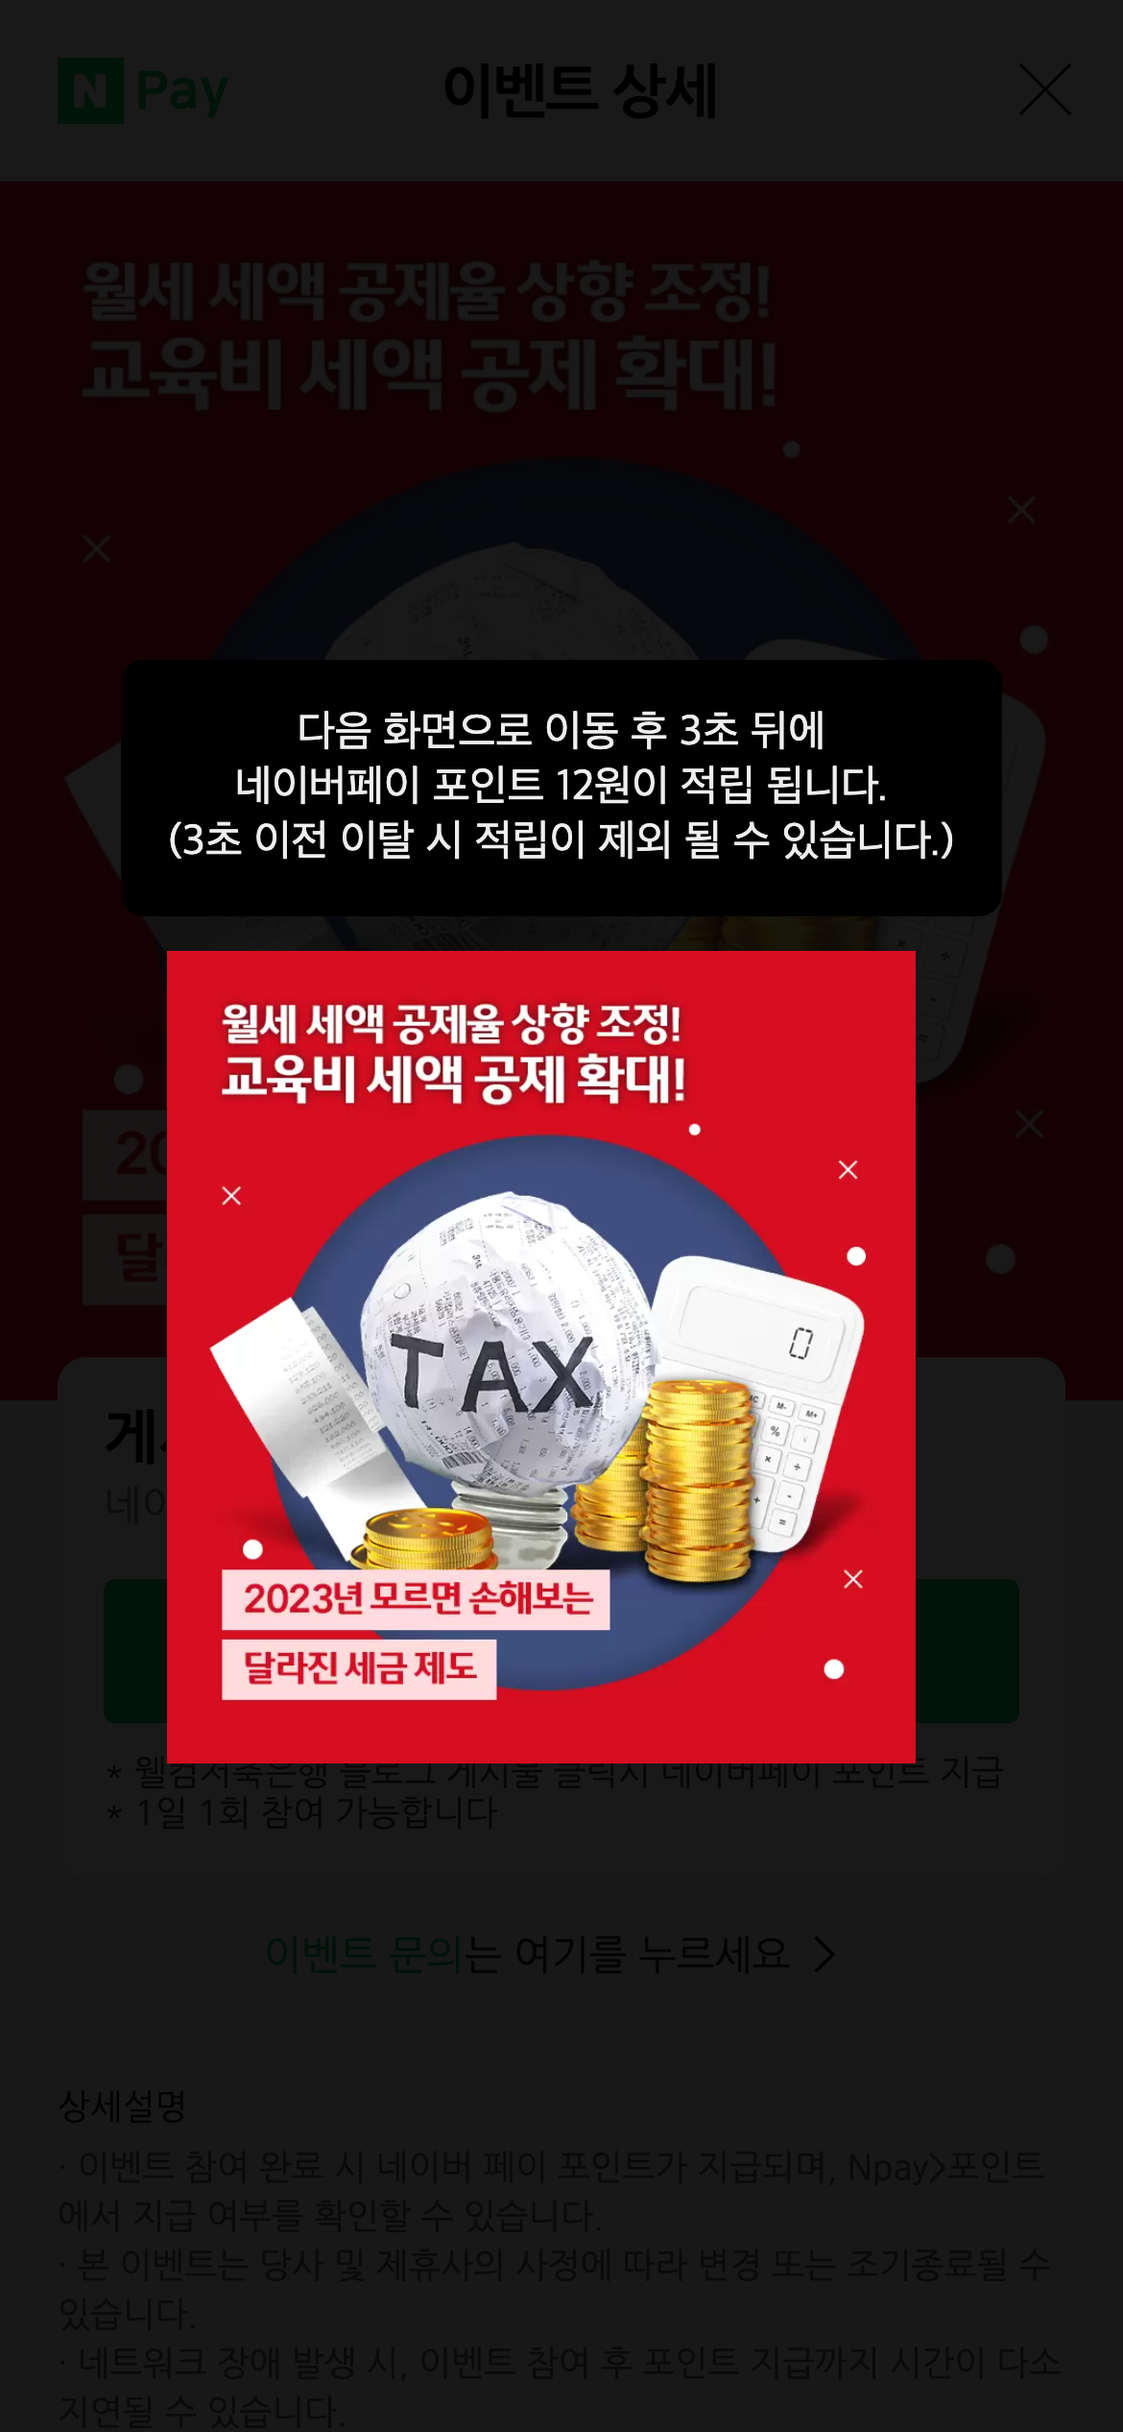
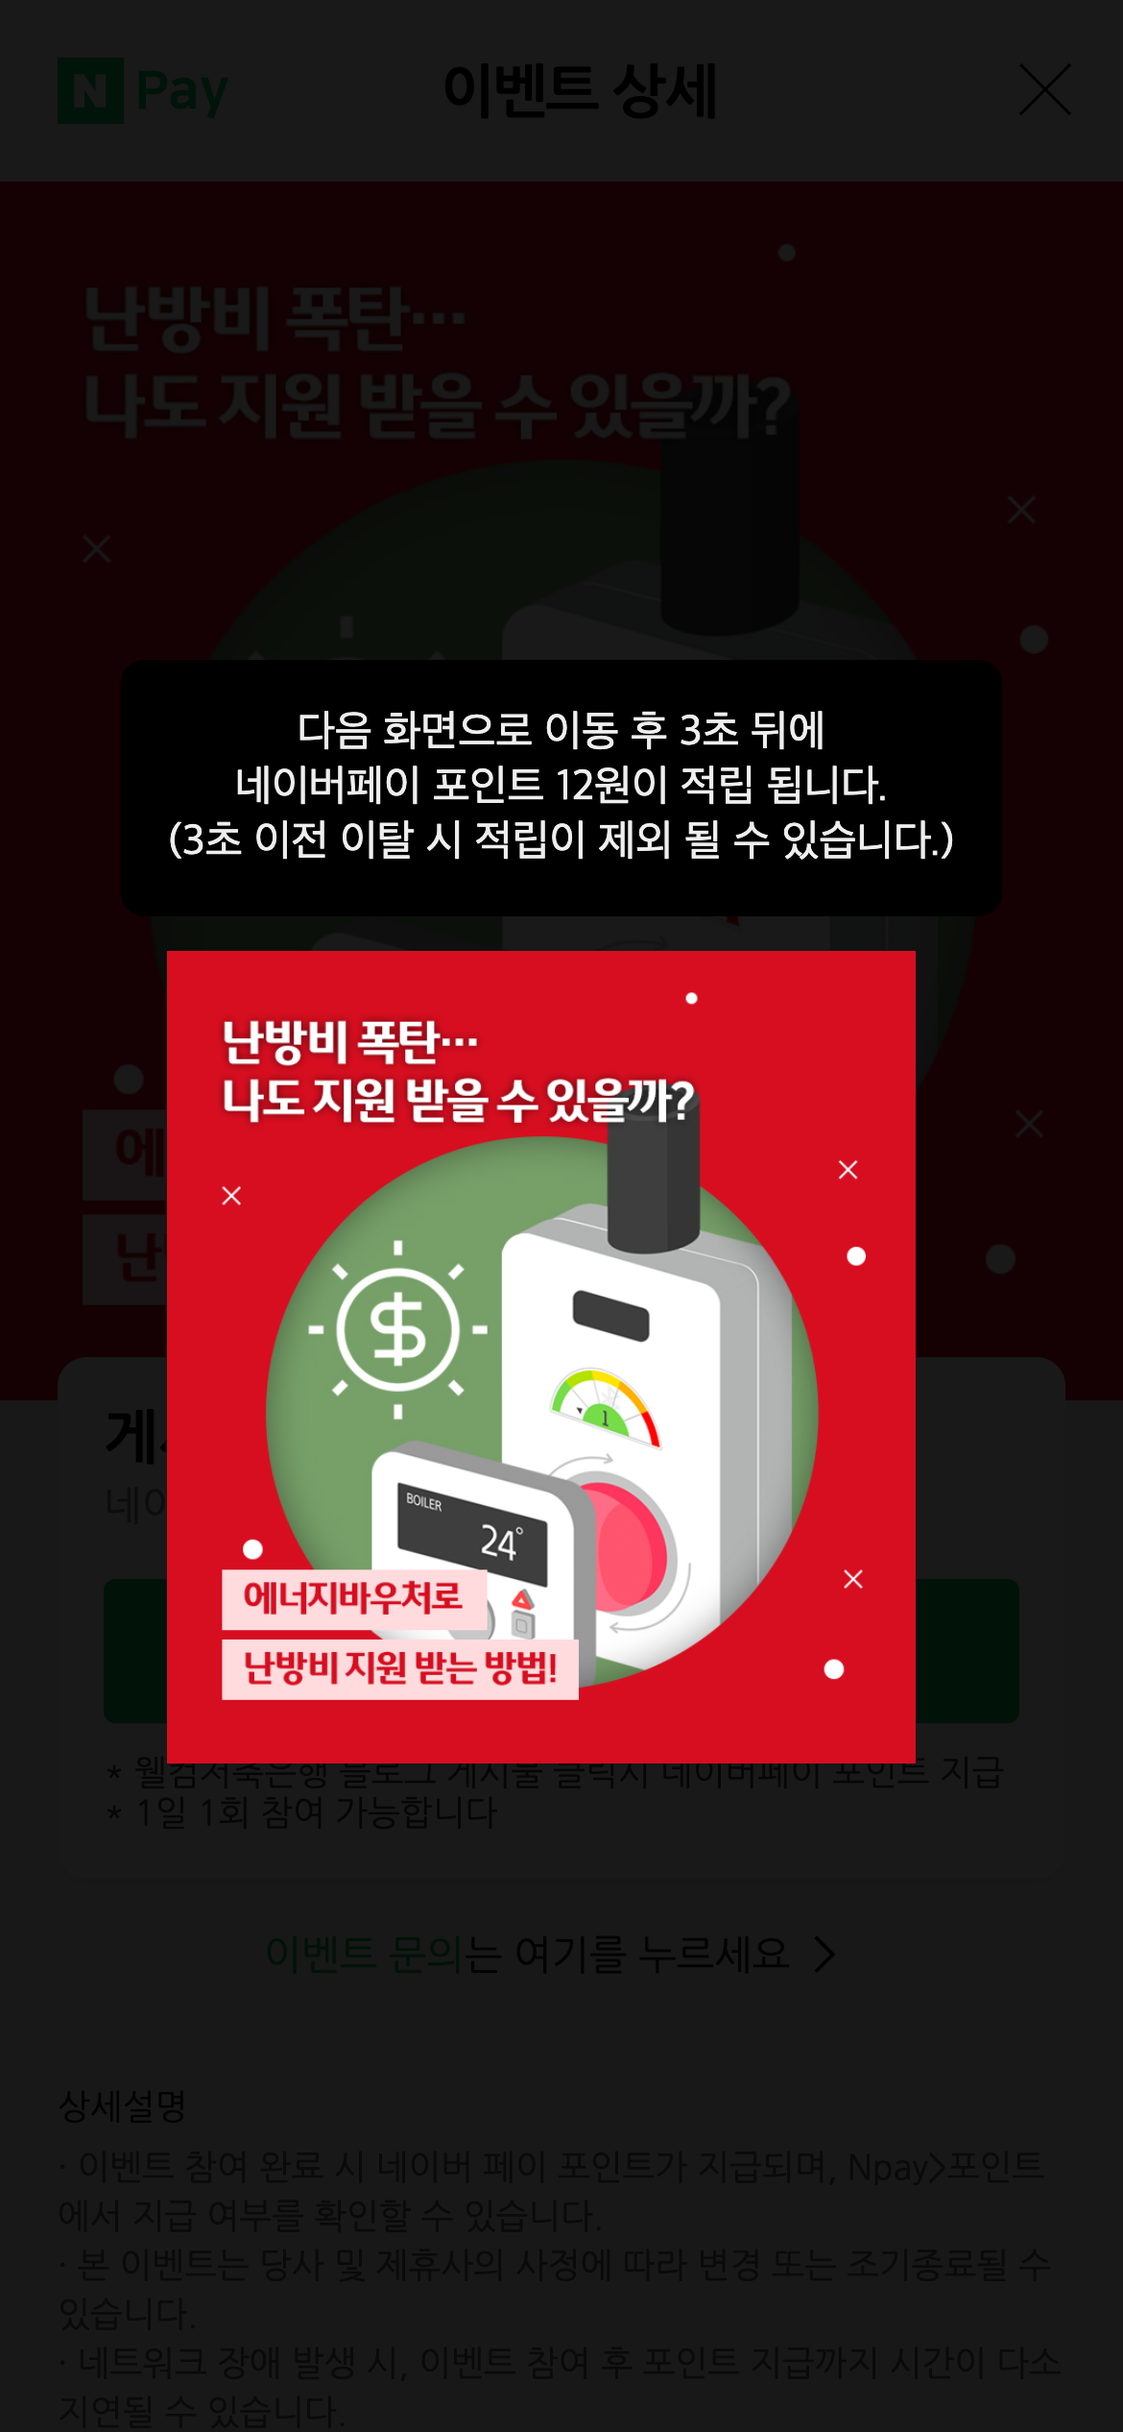
Update 광고 정리
종료된 광고 정리

Changed region(s): [[0.1846, 0.4056, 0.7692, 0.7176]]

diff --git a/appDev.js b/appDev.js
@@ -32,6 +32,7 @@
  * 2023/02/18        wj       네이버 페이 포인트 적립될 아이디 알림 메시지 추가
  * 2023/02/23        wj       9시 광고 시작 시간 조정(웰컴저축 광고 포인트 얻기 실패로 인하여)
  * 2023/02/25        wj       9시 광고 시작 시간 조정(웰컴저축 광고 포인트 얻기 실패로 인하여)
+ * 2023/03/06        wj       종료된 광고 정리 및 코드 정리
  */
 /* Reference
  * 파이썬 - 셀레니움으로 네이버 로그인하기, 캡차(보안문자) 우회 : https://private.tistory.com/119
@@ -86,15 +87,6 @@ if (!config.id || !config.pw) {
         throw  Error("시간에 맞춰 실행하지 못하였습니다. 수동적립후 오류를 확인 해주세요.\n" + e);
     }
 
-    // try {
-    //     let today = new Date();
-    //     schedule.scheduleJob('02 00 08 * * *', () => { // 매일 오전 08시 프로그램 작동
-    //         console.log("현재 시간: " + today.toLocaleString() + " 네이버 페이 자동 출첵이 시작되었습니다.");
-    //         login(job1_2) // 네이버 로그인후 8시 광고 함수 실행
-    //     });
-    // } catch (e) {
-    //     throw  Error("시간에 맞춰 실행하지 못하였습니다. 수동적립후 오류를 확인 해주세요.\n" + e);
-    // }
 
     try {
         let today = new Date();
@@ -217,162 +209,6 @@ if (!config.id || !config.pw) {
         login(); // Callback 적용
     }
 
-    //////////////////// 자정 광고 함수 ////////////////////
-    async function job1_1() {
-        //////////////////// 1차 자정 광고 ////////////////////
-        try {
-            let alreadyDone = "클릭 적립은 캠페인당 1회만 적립 됩니다.2초 뒤 다음 페이지로 이동 합니다.";
-            let endAd = "준비된 클릭 적립이 모두 소진 되었습니다.2초 뒤 다음 페이지로 이동 합니다.";
-
-            await page.goto('https://ofw.adison.co/u/naverpay/ads/343265'); // 나이키 인기 신발
-            await page.waitForTimeout(1000); // 접속 대기
-            const modal = await page.$("body > div.cpc_popup > div > div.dim > p");
-            const modalText = await page.evaluate(modal => modal.textContent, modal);
-            console.log("알림창 내용: " + modalText);
-
-            if (modalText == endAd) {
-                await page.screenshot({
-                    path: 'Screenshot/NPayEndAd1_1.png', fullPage: false
-                });
-                console.log("자정 1차 온라인 폐지가 소진 되어 종료되었습니다. 자정 2차 적립으로 진행합니다.");
-            }
-            if (modalText == alreadyDone) {
-                await page.screenshot({
-                    path: 'Screenshot/NPayAlreadyDone1_1.png', fullPage: false
-                });
-                console.log("이미 자정 1차 온라인 폐지 줍기를 하셨습니다. 자정 2차 적립으로 진행합니다.");
-            }
-
-            await page.screenshot({
-                path: 'Screenshot/NPayMidnight1_1.png', fullPage: false
-            });
-            console.log("자정 1차 광고 페이지에 접속하였지만, 포인트 적립이 되었는지는 확인하세요!")
-            await page.waitForTimeout(7000); // 2초후 자동 페이지 이동 대기
-        } catch (e) {
-            let errorMsg = "자정 1차 적립 페이지에 접속 할 수 없습니다. 다시 확인후 재시도 해주십시오."
-            await page.screenshot({
-                path: 'Screenshot/NPayMidnightFailAccess1_1.png', fullPage: false
-            });
-            throw Error(errorMsg + e);
-        }
-        //
-        // //////////////////// 2차 자정 광고 ////////////////////
-        // try {
-        //     let alreadyDone = "클릭 적립은 캠페인당 1회만 적립 됩니다.2초 뒤 다음 페이지로 이동 합니다.";
-        //     let endAd = "준비된 클릭 적립이 모두 소진 되었습니다.2초 뒤 다음 페이지로 이동 합니다.";
-        //
-        //     await page.goto('https://ofw.adison.co/u/naverpay/ads/298915'); // 나이키 에어맥스 95
-        //     await page.waitForTimeout(1000); // 접속 대기
-        //
-        //     const modal = await page.$("body > div.cpc_popup > div > div.dim > p");
-        //     const modalText = await page.evaluate(modal => modal.textContent, modal);
-        //     console.log("알림창 내용: " + modalText);
-        //
-        //     if (modalText == endAd) {
-        //         await page.screenshot({
-        //             path: 'Screenshot/NPayEndAd2.png', fullPage: false
-        //         });
-        //         console.log("2차 온라인 폐지가 소진 되어 종료되었습니다.");
-        //     }
-        //     if (modalText == alreadyDone) {
-        //         await page.screenshot({
-        //             path: 'Screenshot/NPayAlreadyDone2.png', fullPage: false
-        //         });
-        //         console.log("이미 2차 자정 온라인 폐지 줍기를 하셨습니다.");
-        //     }
-        //
-        //     await page.screenshot({
-        //         path: 'Screenshot/NPayMidnight2.png', fullPage: false
-        //     });
-        //     console.log("자정 2차 광고 페이지에 접속하였지만, 포인트 적립이 되었는지는 확인하세요!")
-        //     await page.waitForTimeout(5000); // 2초후 페이지 이동 대기
-        // } catch (e) {
-        //     let errorMsg = "자정 2차 적립 페이지에 접속 할 수 없습니다. 다시 확인후 재시도 해주십시오."
-        //     await page.screenshot({
-        //         path: 'Screenshot/NPayMidnightFailAccess2.png', fullPage: false
-        //     });
-        //     throw Error(errorMsg + e);
-        // }
-        //
-        // //////////////////// 3차 자정 광고 ////////////////////
-        // try {
-        //     let alreadyDone = "클릭 적립은 캠페인당 1회만 적립 됩니다.2초 뒤 다음 페이지로 이동 합니다.";
-        //     let endAd = "준비된 클릭 적립이 모두 소진 되었습니다.2초 뒤 다음 페이지로 이동 합니다.";
-        //
-        //     await page.goto('https://ofw.adison.co/u/naverpay/ads/343265'); // 나이키 플래시 세일
-        //     await page.waitForTimeout(1000); // 접속 대기
-        //
-        //     const modal = await page.$("body > div.cpc_popup > div > div.dim > p");
-        //     const modalText = await page.evaluate(modal => modal.textContent, modal);
-        //     console.log("알림창 내용: " + modalText);
-        //
-        //     if (modalText == endAd) {
-        //         await page.screenshot({
-        //             path: 'Screenshot/NPayEndAd2.png', fullPage: false
-        //         });
-        //         console.log("2차 온라인 폐지가 소진 되어 종료되었습니다.");
-        //     }
-        //     if (modalText == alreadyDone) {
-        //         await page.screenshot({
-        //             path: 'Screenshot/NPayAlreadyDone2.png', fullPage: false
-        //         });
-        //         console.log("이미 2차 자정 온라인 폐지 줍기를 하셨습니다.");
-        //     }
-        //
-        //     await page.screenshot({
-        //         path: 'Screenshot/NPayMidnight2.png', fullPage: false
-        //     });
-        //     console.log("자정 2차 광고 페이지에 접속하였지만, 포인트 적립이 되었는지는 확인하세요!")
-        //     await page.waitForTimeout(5000); // 2초후 페이지 이동 대기
-        // } catch (e) {
-        //     let errorMsg = "자정 2차 적립 페이지에 접속 할 수 없습니다. 다시 확인후 재시도 해주십시오."
-        //     await page.screenshot({
-        //         path: 'Screenshot/NPayMidnightFailAccess2.png', fullPage: false
-        //     });
-        //     throw Error(errorMsg + e);
-        // }
-
-    }
-    // async function job1_2() {
-    //     //////////////////// 8시 광고 ////////////////////
-    //     try {
-    //         let alreadyDone = "클릭 적립은 캠페인당 1회만 적립 됩니다.2초 뒤 다음 페이지로 이동 합니다.";
-    //         let endAd = "준비된 클릭 적립이 모두 소진 되었습니다.2초 뒤 다음 페이지로 이동 합니다.";
-    //
-    //         await page.goto('https://ofw.adison.co/u/naverpay/ads/348514'); // 갤럭시 온라인 체험존
-    //
-    //         await page.waitForTimeout(1000); // 접속 대기
-    //
-    //         const modal = await page.$("body > div.cpc_popup > div > div.dim > p");
-    //         const modalText = await page.evaluate(modal => modal.textContent, modal);
-    //         console.log("알림창 내용: " + modalText);
-    //
-    //         if (modalText == endAd) {
-    //             await page.screenshot({
-    //                 path: 'Screenshot/NPayEndAd1_2.png', fullPage: false
-    //             });
-    //             console.log("8시 광고 온라인 폐지가 소진 되어 종료되었습니다.");
-    //         }
-    //         if (modalText == alreadyDone) {
-    //             await page.screenshot({
-    //                 path: 'Screenshot/NPayAlreadyDone1_2.png', fullPage: false
-    //             });
-    //             console.log("8시 광고를 이미 온라인 폐지 줍기 하셨습니다.");
-    //         }
-    //
-    //         await page.screenshot({
-    //             path: 'Screenshot/NPay1_2.png', fullPage: false
-    //         });
-    //         console.log("8시 광고 페이지에 접속하였지만, 포인트 적립이 되었는지는 확인하세요!")
-    //         await page.waitForTimeout(7000); // 2초후 자동 페이지 이동 대기
-    //     } catch (e) {
-    //         let errorMsg = "8시 광고 적립 페이지에 접속 할 수 없습니다. 다시 확인후 재시도 해주십시오."
-    //         await page.screenshot({
-    //             path: 'Screenshot/NPayFailAccess1_2.png', fullPage: false
-    //         });
-    //         throw Error(errorMsg + e);
-    //     }
-    // }
 
     //////////////////// 9시 광고 함수 ////////////////////
     async function job1_3() {
@@ -430,63 +266,6 @@ if (!config.id || !config.pw) {
             let errorMsg = "9시 1차 적립 페이지에 접속 할 수 없습니다. 다시 확인후 재시도 해주십시오."
             await page.screenshot({
                 path: 'Screenshot/NPayFailAccess1_3_1.png', fullPage: false
-            });
-            throw Error(errorMsg + e);
-        }
-
-        //////////////////// 9시 광고 2차 ////////////////////
-
-        try {
-            let alreadyDone = "클릭 적립은 캠페인당 1회만 적립 됩니다.2초 뒤 다음 페이지로 이동 합니다.";
-            let endAd = "준비된 클릭 적립이 모두 소진 되었습니다.2초 뒤 다음 페이지로 이동 합니다.";
-
-            await page.goto('https://ofw.adison.co/u/naverpay/ads/298919'); // 나이키 와플
-
-            await page.waitForTimeout(1000); // 접속 대기
-
-            const modal = await page.$("body > div.cpc_popup > div > div.dim > p");
-            const modalText = await page.evaluate(modal => modal.textContent, modal);
-            console.log("알림창 내용: " + modalText);
-
-
-            if (modalText == endAd) {
-                await page.screenshot({
-                    path: 'Screenshot/NPayEndAd1_3_2.png', fullPage: false
-                });
-                console.log("9시 2차 온라인 폐지가 소진 되어 종료되었습니다.");
-            }
-            if (modalText == alreadyDone) {
-                await page.screenshot({
-                    path: 'Screenshot/NPayAlreadyDone1_3_2.png', fullPage: false
-                });
-                console.log("9시 2차 광고를 이미 온라인 폐지 줍기 하셨습니다.");
-            }
-            //
-            // //////// 화면 이동후 광고 종료 여부 확인 //////////////
-            //
-            // await page.waitForTimeout(3000); // 페이지 이동후 잠시 대기
-            // let endAd2 = "광고 참여가 종료되었습니다.다른 광고를 이용해 주세요 ";
-            // const modal2 = await page.$("body > div.blocker.current > div > div:nth-child(1)");
-            // const modalText2 = await page.evaluate(modal2 => modal2.textContent, modal2);
-            // console.log("알림창 내용: " + modalText2);
-            // if (modalText2 == endAd2) {
-            //     await page.screenshot({
-            //         path: 'Screenshot/NPayEnd1_3_2.png', fullPage: false
-            //     });
-            //     console.log("9시 2차 광고가 종료되어 출첵을 실패하였습니다. 확인후 다시 시도 해주세요.");
-            // }
-
-            await page.screenshot({
-                path: 'Screenshot/NPay1_3_2.png', fullPage: false
-            });
-            console.log("9시 2차 페이지에 접속하였지만, 포인트 적립이 되었는지는 확인하세요!")
-
-            await page.waitForTimeout(7000); // 2초후 자동 페이지 이동 대기
-
-        } catch (e) {
-            let errorMsg = "9시 2차 적립 페이지에 접속 할 수 없습니다. 다시 확인후 재시도 해주십시오."
-            await page.screenshot({
-                path: 'Screenshot/NPayFailAccess1_3_2.png', fullPage: false
             });
             throw Error(errorMsg + e);
         }
@@ -553,68 +332,6 @@ if (!config.id || !config.pw) {
         } catch (e) {
 
         }
-        //
-        // //////////////////// 2차 광고 ////////////////////
-        // try {
-        //     await page.goto('https://ofw.adison.co/u/naverpay/ads/72557'); // 오전 10시 현장결제
-        //
-        //     await page.waitForTimeout(2000);
-        //     await page.screenshot({
-        //         path: 'Screenshot/NPay2.png', fullPage: false
-        //     });
-        //     console.log("2차 광고 페이지 접속에 성공하였습니다.")
-        // } catch (e) {
-        //     let errorMsg = "2차 적립 페이지에 접속 할 수 없습니다. 다시 확인후 재시도 해주십시오."
-        //     await page.screenshot({
-        //         path: 'Screenshot/NPayFailAccess2.png', fullPage: false
-        //     });
-        //     throw Error(errorMsg + e);
-        // }
-        // try {
-        //     await page.waitForTimeout(5000);
-        //
-        //     let possibleBtn = "\n" + "                  참여하고 포인트받기\n" + "              ";
-        //     const callToActionBtn = await page.$("#app > div:nth-child(3) > div > div > div > button > span"); // 모바일 버전
-        //     // const callToActionBtn = await page.$("#app > div:nth-child(2) > div > div > div > button > span"); // PC 버전
-        //     const btnText = await page.evaluate(callToActionBtn => callToActionBtn.textContent, callToActionBtn);
-        //     console.log("버튼상태: " + btnText);
-        //
-        //     if (btnText == possibleBtn) {
-        //         console.log("현재 상태 광고 참여 가능합니다. 이어서 진행합니다.");
-        //         await page.click("#app > div:nth-child(3) > div > div > div > button"); // 모바일 버전 포인트 받기 버튼
-        //         // await page.click("#app > div:nth-child(2) > div > div > div > button"); // PC 버전 포인트 받기 버튼
-        //         await page.waitForTimeout(3000);
-        //
-        //     }
-        //
-        //     let completionBtn = "\n" + "                  참여 완료\n" + "              ";
-        //     if (btnText == completionBtn) {
-        //         console.log("광고 참여 완료가 확인되어 출첵이 되지 않았습니다.\n이어서 3차 광고 적립을 진행합니다.");
-        //         await page.screenshot({
-        //             path: 'Screenshot/NPayResult2.png', fullPage: false
-        //         });
-        //         await page.waitForTimeout(1000);
-        //     }
-        //
-        //     let endAd = "광고 참여가 종료되었습니다.다른 광고를 이용해 주세요 ";
-        //     const modal = await page.$("body > div.blocker.current > div > div:nth-child(1)"); // 모바일 버전
-        //     // const modal = await page.$("#app > div.blocker.current > div > div:nth-child(1)"); // PC 버전
-        //     const modalText = await page.evaluate(modal => modal.textContent, modal);
-        //     console.log("알림창 내용: " + modalText);
-        //
-        //     if (modalText == endAd) {
-        //         await page.screenshot({
-        //             path: 'Screenshot/NPayEnd2.png', fullPage: false
-        //         });
-        //         console.log("광고가 종료되어 출첵을 실패하였습니다. 확인후 다시 시도 해주세요.");
-        //     }
-        //
-        // } catch (e) {
-        //     await page.screenshot({
-        //         path: 'Screenshot/NPaySuccess2.png', fullPage: false
-        //     });
-        //     console.log("2차 적립을 성공하였습니다.");
-        // }
 
         //////////////////// 3차 광고 ////////////////////
 
